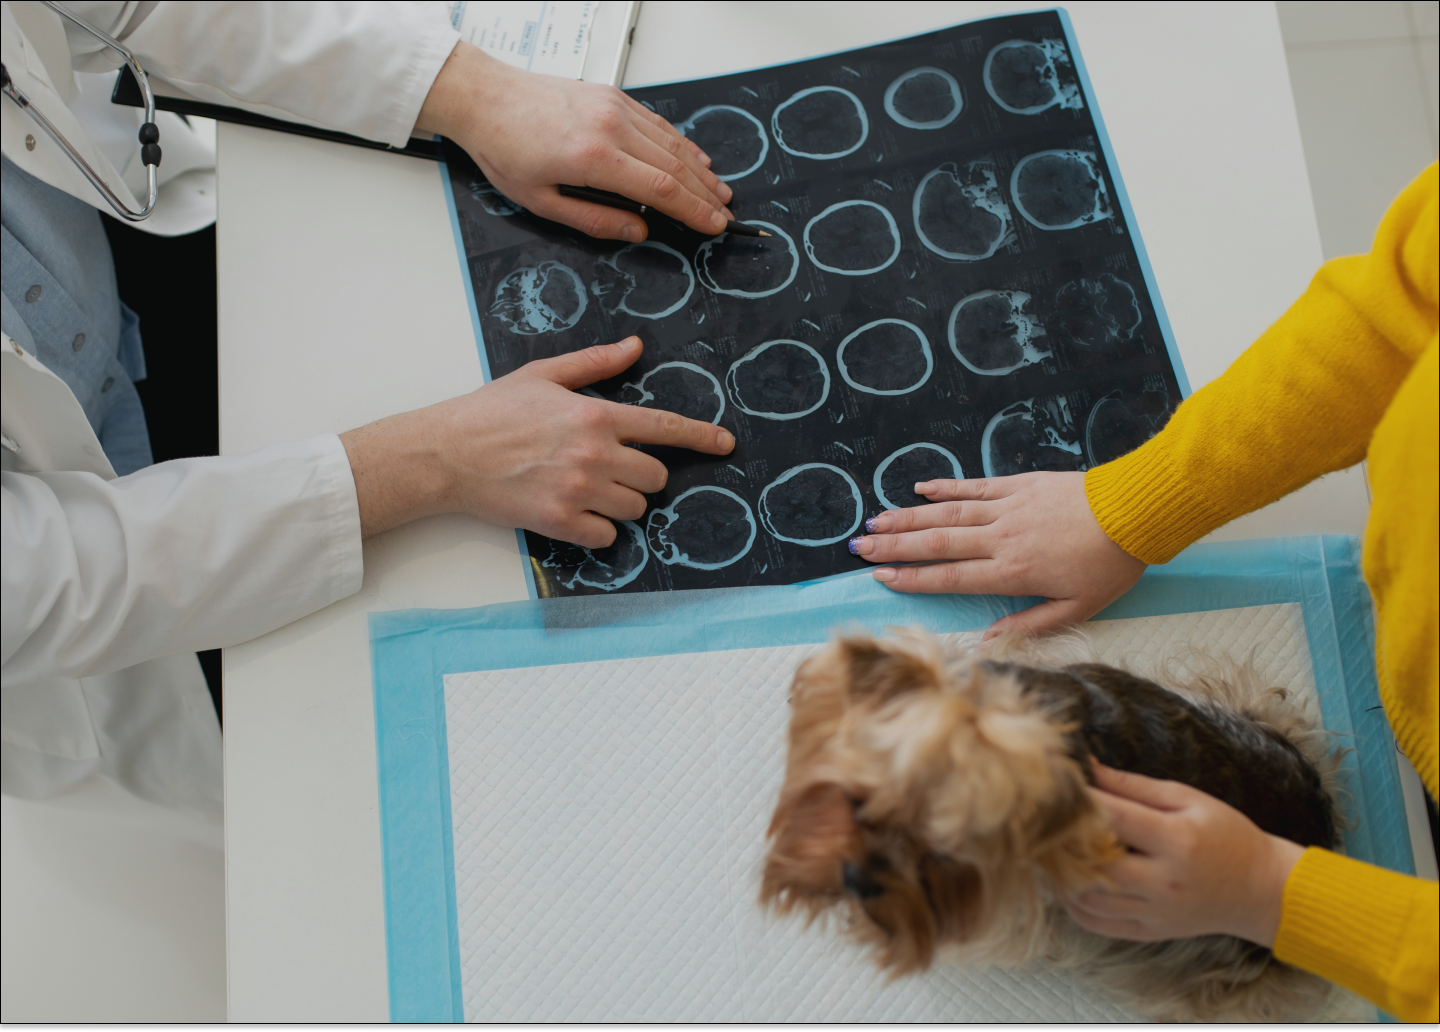
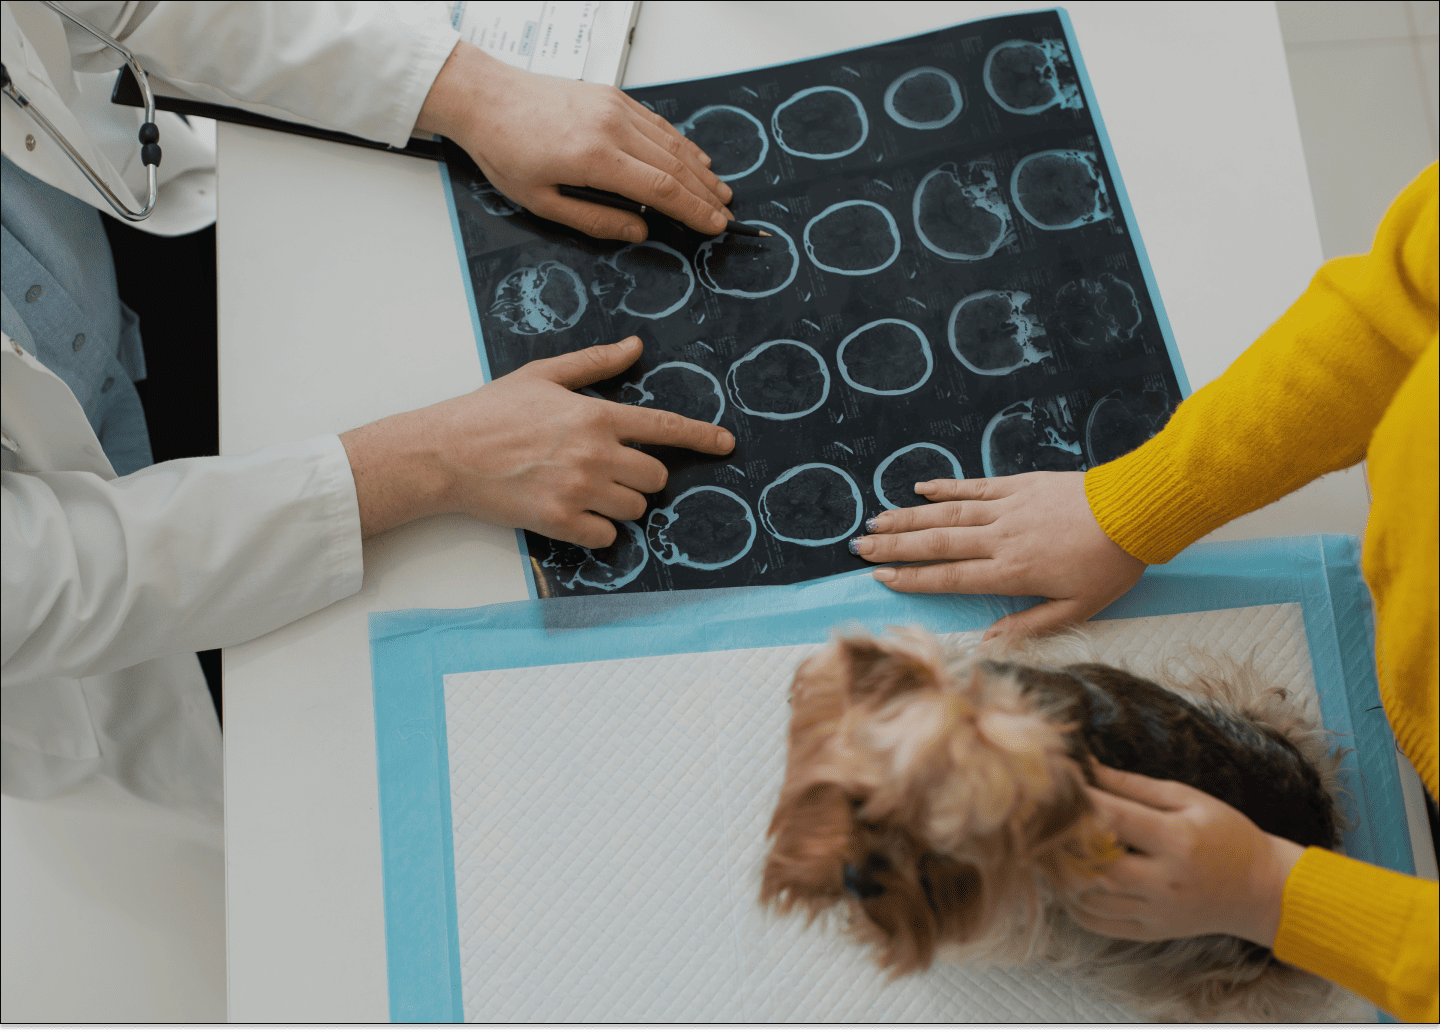
add single from page in redux and compress image

diff --git a/frontend/src/pages/ForumPage/SingleForumPage.tsx b/frontend/src/pages/ForumPage/SingleForumPage.tsx
@@ -73,24 +73,24 @@ const SingleForumPage = () => {
     );
   }, [dispatch, forumId, commentPage]);
 
-  useEffect(() => {
-    const loadForum = async () => {
-      if (!forumId) return;
-      try {
-        // fetch forum data
-        await dispatch(fetchSingleForum(forumId)).unwrap();
+  // useEffect(() => {
+  //   const loadForum = async () => {
+  //     if (!forumId) return;
+  //     try {
+  //       // fetch forum data
+  //       await dispatch(fetchSingleForum(forumId)).unwrap();
 
-        // check if current user liked it (Redux will store isLiked)
-        if (user) {
-          await dispatch(checkLike({ forumId })).unwrap();
-        }
-      } catch (err) {
-        showToast("Error loading forum", "destructive");
-      }
-    };
+  //       // check if current user liked it (Redux will store isLiked)
+  //       if (user) {
+  //         await dispatch(checkLike({ forumId })).unwrap();
+  //       }
+  //     } catch (err) {
+  //       showToast("Error loading forum", "destructive");
+  //     }
+  //   };
 
-    loadForum();
-  }, [forumId]);
+  //   loadForum();
+  // }, [forumId]);
 
   // Show toast for errors
   useEffect(() => {

diff --git a/frontend/src/pages/ForumPage/ForumPage.tsx b/frontend/src/pages/ForumPage/ForumPage.tsx
@@ -93,7 +93,16 @@ const ForumPage: React.FC = () => {
           tags: newForumTags,
         }),
       ).unwrap();
-
+      await dispatch(
+        fetchForums({
+          page: 0,
+          size,
+          sortBy,
+          sortDir,
+          searchTerm,
+          tagSearchTerm,
+        }),
+      );
       resetEditor();
     } catch (err) {
       showToast("Failed to create forum", "destructive");

diff --git a/backend/src/main/java/com/petconnect/backend/BackendApplication.java b/backend/src/main/java/com/petconnect/backend/BackendApplication.java
@@ -1,13 +1,8 @@
 package com.petconnect.backend;
 
-import io.github.cdimascio.dotenv.Dotenv;
 import org.springframework.boot.SpringApplication;
 import org.springframework.boot.autoconfigure.SpringBootApplication;
-import org.springframework.context.annotation.ComponentScan;
 import org.springframework.data.mongodb.config.EnableMongoAuditing;
-
-import java.security.Key;
-import java.util.Base64;
 
 @SpringBootApplication
 @EnableMongoAuditing
